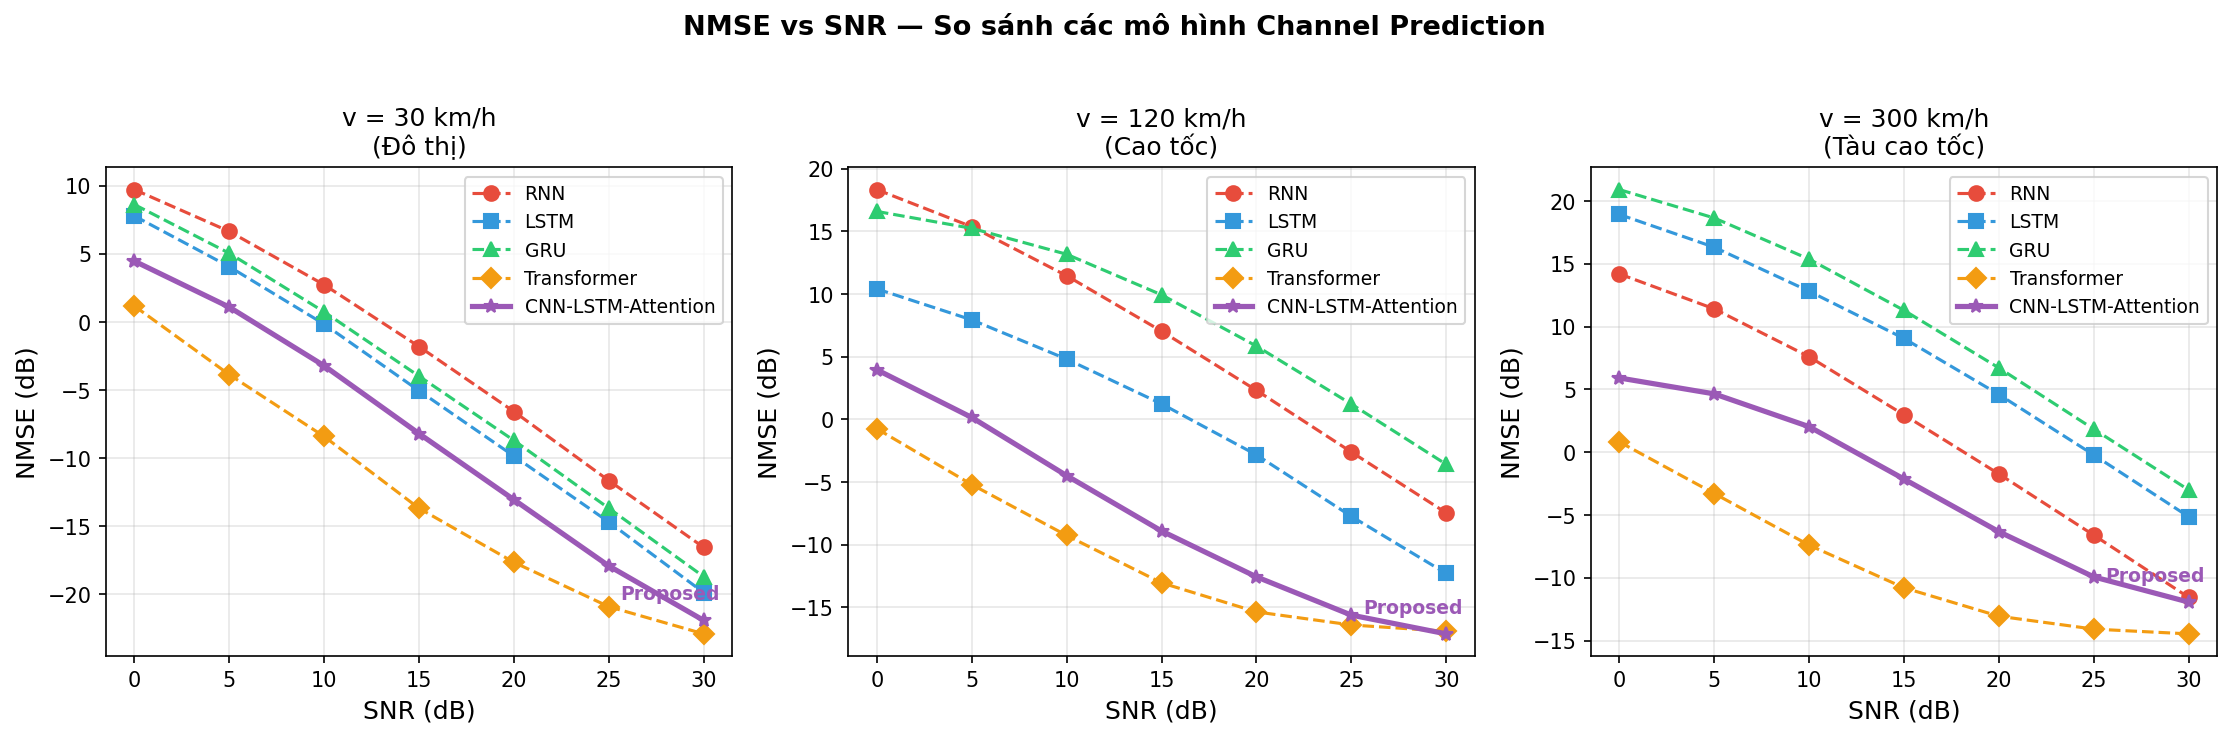
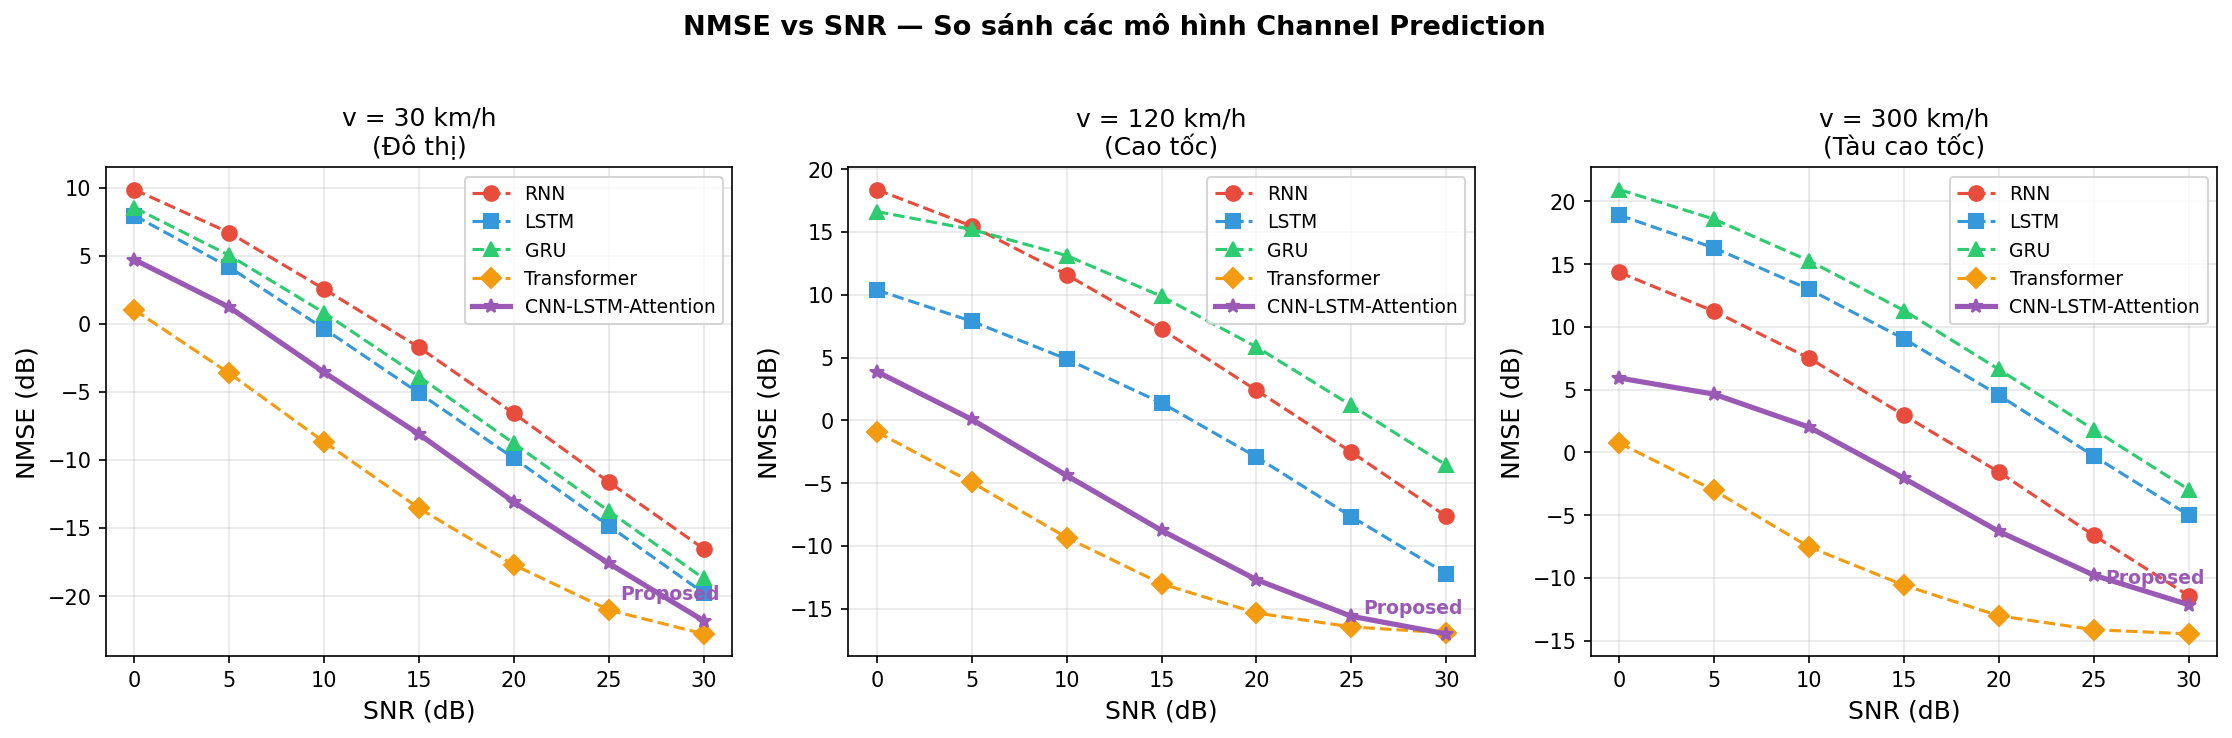
So sánh delay giữa các mô hình khi dự đoán kênh

diff --git a/channel-prediction/evaluate.py b/channel-prediction/evaluate.py
@@ -308,6 +308,111 @@ def plot_attention_weights(velocity=300, n_samples=3):
     plt.show()
     print(f"Saved: {out}")
 
+# ============================================================
+# HÀM 9: Vẽ time series — kênh thật vs kênh dự đoán
+# ============================================================
+def plot_prediction_timeseries(velocity=300, n_show=200, snr_db=20):
+    """
+    Vẽ đồ thị trực quan nhất của đề tài:
+    - Đường xanh: kênh thật |h(t)|
+    - Đường đỏ: kênh model dự đoán |h_predicted(t)|
+    2 đường càng sát nhau → model dự đoán càng tốt.
+
+    Args:
+        velocity : tốc độ km/h (300 = khó nhất, 30 = dễ nhất)
+        n_show   : số bước thời gian hiển thị
+        snr_db   : mức SNR thêm vào input
+    """
+    os.makedirs(CONFIG['out_dir'], exist_ok=True)
+
+    X_test, y_test = load_test_data(velocity)
+
+    # Tính noise
+    signal_power = torch.mean(X_test ** 2).item()
+    snr_linear   = 10 ** (snr_db / 10)
+    noise_std    = np.sqrt(signal_power / snr_linear)
+
+    fig, axes = plt.subplots(2, 1, figsize=(14, 8))
+
+    # ── So sánh 2 model: LSTM baseline vs CNN-LSTM-Attention ──
+    models_to_plot = ['LSTM', 'CNN-LSTM-Attention']
+    line_colors    = {'LSTM': '#3498DB', 'CNN-LSTM-Attention': '#9B59B6'}
+
+    # Lấy ground truth từ y_test (n_show mẫu đầu)
+    y_true = y_test[:n_show].numpy()           # (n_show, 2)
+    h_true_amp = np.sqrt(y_true[:, 0]**2 + y_true[:, 1]**2)  # biên độ |h|
+
+    for ax, model_name in zip(axes, models_to_plot):
+        model = build_model(model_name)
+        model = load_checkpoint(model, model_name, velocity)
+
+        # Lấy n_show mẫu đầu
+        X_sample = X_test[:n_show].to(DEVICE)
+
+        # Thêm nhiễu
+        noise    = torch.randn_like(X_sample) * noise_std
+        X_noisy  = X_sample + noise
+
+        with torch.no_grad():
+            if hasattr(model, 'predict'):
+                pred = model.predict(X_noisy)
+            else:
+                pred = model(X_noisy)
+
+        pred_np = pred.cpu().numpy()           # (n_show, 2)
+        h_pred_amp = np.sqrt(pred_np[:, 0]**2 + pred_np[:, 1]**2)
+
+        t = np.arange(n_show)
+
+        # Vẽ ground truth
+        ax.plot(t, h_true_amp,
+                color='#2ECC71', linewidth=1.2,
+                label='Kênh thật |h(t)|', alpha=0.9)
+
+        # Vẽ prediction
+        ax.plot(t, h_pred_amp,
+                color=line_colors[model_name], linewidth=1.2,
+                linestyle='--',
+                label=f'{model_name} (dự đoán)', alpha=0.9)
+
+        # Tô vùng sai số
+        ax.fill_between(t,
+                        h_true_amp, h_pred_amp,
+                        alpha=0.15,
+                        color=line_colors[model_name],
+                        label='Sai số')
+
+        # Tính NMSE cho đoạn này
+        err     = pred_np - y_true
+        nmse    = 10 * np.log10(
+            np.sum(err**2) / (np.sum(y_true**2) + 1e-10)
+        )
+
+        ax.set_ylabel('Biên độ |h(t)|', fontsize=11)
+        ax.set_title(
+            f'{model_name} — v={velocity} km/h, SNR={snr_db} dB'
+            f' | NMSE = {nmse:.2f} dB',
+            fontsize=11
+        )
+        ax.legend(loc='upper right', fontsize=9)
+        ax.grid(True, alpha=0.3)
+        ax.set_ylim(bottom=0)
+
+    axes[-1].set_xlabel('Bước thời gian', fontsize=11)
+
+    plt.suptitle(
+        f'Dự đoán kênh truyền — So sánh LSTM vs CNN-LSTM-Attention\n'
+        f'v = {velocity} km/h | SNR = {snr_db} dB\n'
+        f'(Đường dự đoán càng sát đường thật càng tốt)',
+        fontsize=12, fontweight='bold'
+    )
+    plt.tight_layout()
+
+    out = os.path.join(CONFIG['out_dir'],
+                       f'prediction_timeseries_v{velocity}kmh.png')
+    plt.savefig(out, dpi=150, bbox_inches='tight')
+    plt.show()
+    print(f"  Saved: {out}")
 
 # ============================================================
 # CHẠY CHÍNH
@@ -349,6 +454,13 @@ if __name__ == "__main__":
     print("\nVẽ attention weights...")
     plot_attention_weights(velocity=300)
 
+    # Vẽ time series prediction
+    print("\nVẽ time series prediction...")
+    plot_prediction_timeseries(velocity=300)
+    plot_prediction_timeseries(velocity=120)
+    plot_prediction_timeseries(velocity=30)
+    
+    
     # Lưu kết quả số
     np.save('results/evaluation_results.npy', results)
     print("\nSaved: results/evaluation_results.npy")
